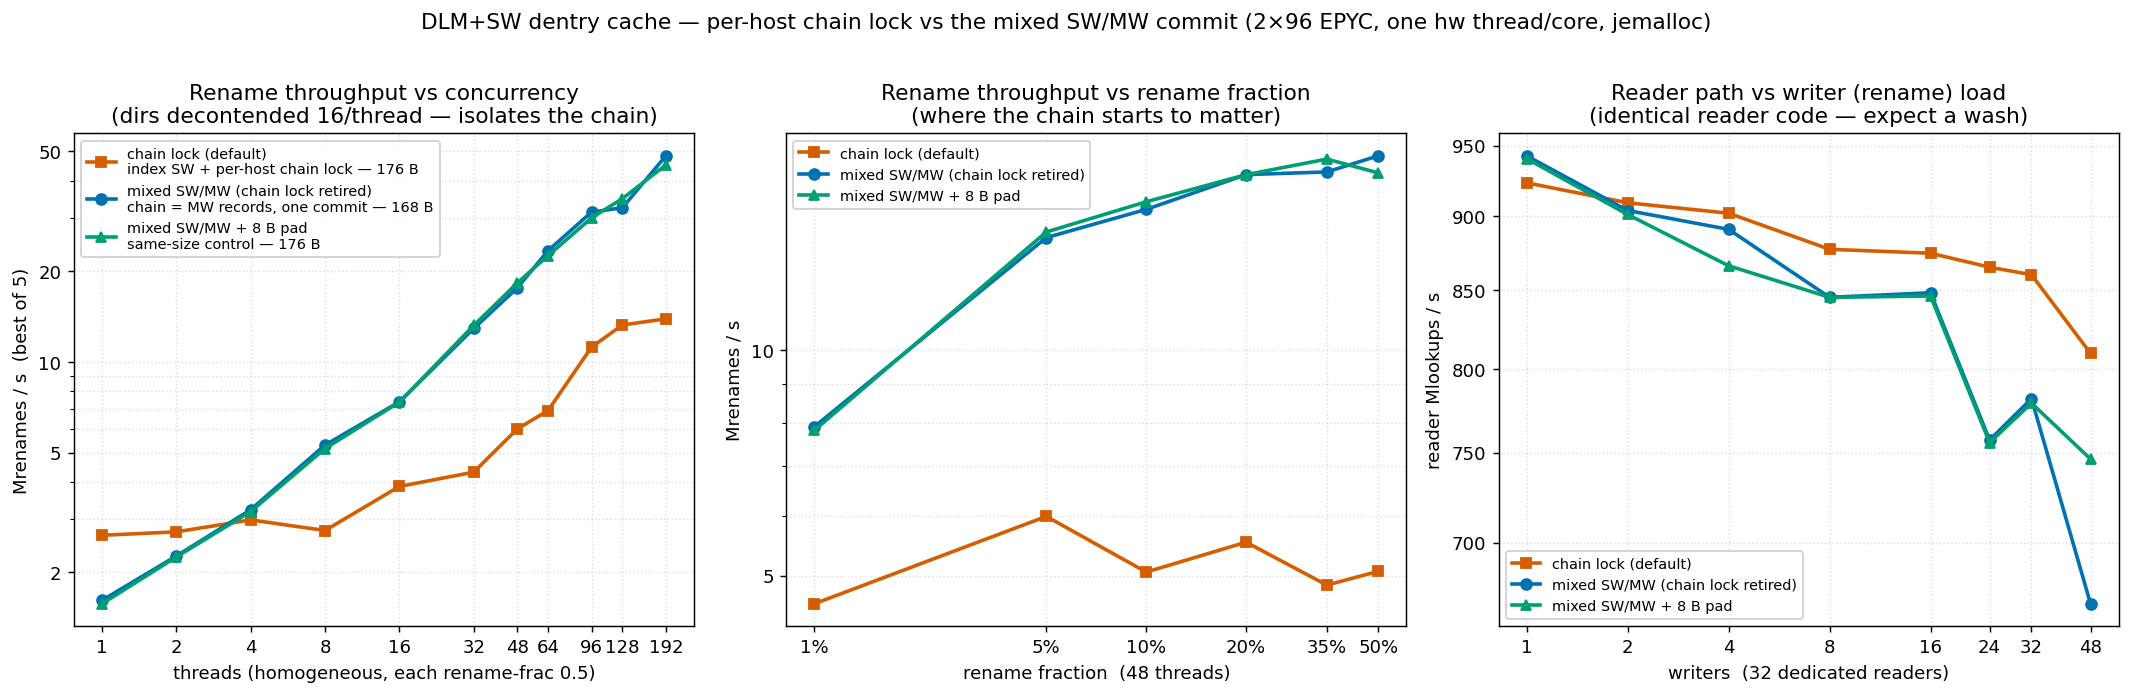
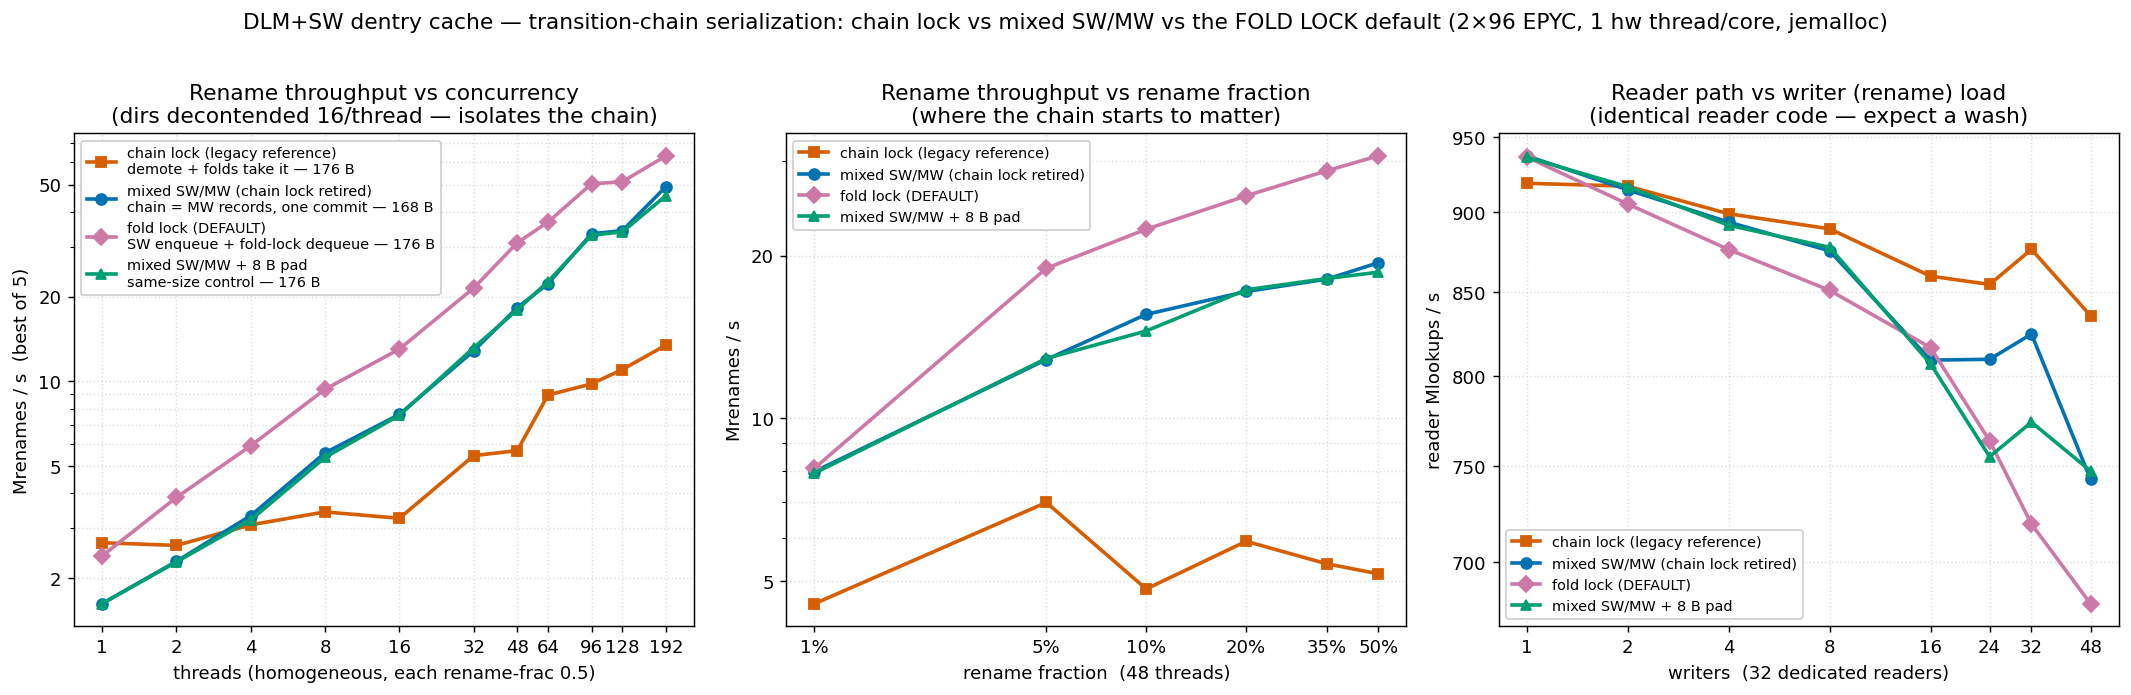
dcache: 4-arm fold-lock A/B sweep + figure
Add the fold-lock default (bench_dcache_dlm) and the chain-lock reference
(bench_dcache_dlm_chainlock, -DDC_CHAIN_LOCK) to the chain-strategy sweep, so the
figure now compares all three strategies plus the same-size control.  Rename the
arms accordingly (dlm-chainlock / dlm-swmw / dlm-swmw-pad / dlm-foldlock).

Result (2x96 EPYC, decontended rename scaling, best-of-5): the fold lock leads
everywhere past 1 thread -- ~2.7-5.5x the chain lock and ~1.3-1.8x the MW dequeue
from 8 to 192 threads -- while nearly matching the chain lock uncontended.  The
MW dequeue's win over the chain lock is the lock-free chain, not the -8B
(dlm-swmw and dlm-swmw-pad track each other).  Reads are a wash (all four ~1290
Mlookups/s, identical reader).

diff --git a/scripts/plot_dcache_swmw.py b/scripts/plot_dcache_swmw.py
@@ -1,16 +1,18 @@
 #!/usr/bin/env python3
 """
-DLM+SW dentry cache: per-host CHAIN LOCK vs the mixed SW/MW commit.
+DLM+SW dentry cache: chain-serialization strategies for the transition chain.
 
-Three arms (identical reader + mark; the transition chain d_fwd/d_back is the only
-thing that differs):
-  dlm           default -- index SW (bucket-locked) + a per-host chain LOCK
-                serializing every stack demote and every fold of a chain.  176 B.
+Four arms (identical reader + mark; only the chain d_fwd/d_back handling differs):
+  dlm-chainlock -DDC_CHAIN_LOCK -- legacy per-host chain LOCK: the demote AND every
+                fold of a chain take it.  176 B.  The A/B reference baseline.
   dlm-swmw      -DDC_CHAIN_SWMW -- the chain rides the mixed commit as MW records
                 (CAS-old serializes adjacent folds); chain lock RETIRED.  168 B.
   dlm-swmw-pad  same mixed engine + 8 B dead padding -> 176 B: the SAME-SIZE
-                control.  (swmw-pad vs dlm) isolates the lock-free-chain MECHANISM;
+                control.  (swmw-pad vs chainlock) isolates the MECHANISM;
                 (swmw vs swmw-pad) isolates the -8B FOOTPRINT.
+  dlm-foldlock  the DEFAULT (no chain flag) -- SW enqueue but the fold dequeue takes
+                a per-host FOLD lock and rewrites the chain with plain stores (no MW
+                descriptor).  The producer never takes that lock.  176 B.
 
 Data: scripts/dcache_swmw.csv (best-of-N, conservation-gated).  2x96 EPYC, one hw
 thread per core, jemalloc, dirs decontended to 16/writer.
@@ -51,14 +53,15 @@ HERE = os.path.dirname(os.path.abspath(__file__))
 CSV = os.path.join(HERE, "dcache_swmw.csv")
 OUT = os.environ.get("OUT", os.path.join(HERE, os.pardir, "figures", "dcache_swmw.png"))
 
-COLOR = {"dlm": "#D55E00", "dlm-swmw": "#0072B2", "dlm-swmw-pad": "#009E73"}
-MARKER = {"dlm": "s", "dlm-swmw": "o", "dlm-swmw-pad": "^"}
+COLOR = {"dlm-chainlock": "#D55E00", "dlm-swmw": "#0072B2", "dlm-swmw-pad": "#009E73", "dlm-foldlock": "#CC79A7"}
+MARKER = {"dlm-chainlock": "s", "dlm-swmw": "o", "dlm-swmw-pad": "^", "dlm-foldlock": "D"}
 LABEL = {
-    "dlm": "chain lock (default)\nindex SW + per-host chain lock — 176 B",
+    "dlm-chainlock": "chain lock (legacy reference)\ndemote + folds take it — 176 B",
     "dlm-swmw": "mixed SW/MW (chain lock retired)\nchain = MW records, one commit — 168 B",
     "dlm-swmw-pad": "mixed SW/MW + 8 B pad\nsame-size control — 176 B",
+    "dlm-foldlock": "fold lock (DEFAULT)\nSW enqueue + fold-lock dequeue — 176 B",
 }
-ORDER = ["dlm", "dlm-swmw", "dlm-swmw-pad"]
+ORDER = ["dlm-chainlock", "dlm-swmw", "dlm-foldlock", "dlm-swmw-pad"]
 
 
 def load():
@@ -142,8 +145,9 @@ def main():
     a2.grid(True, which="both", ls=":", alpha=0.4)
     a2.legend(fontsize=8, loc="lower left", framealpha=0.9)
 
-    fig.suptitle("DLM+SW dentry cache — per-host chain lock vs the mixed SW/MW commit "
-                 "(2×96 EPYC, one hw thread/core, jemalloc)", fontsize=12, y=1.02)
+    fig.suptitle("DLM+SW dentry cache — transition-chain serialization: chain lock vs "
+                 "mixed SW/MW vs the FOLD LOCK default (2×96 EPYC, 1 hw thread/core, jemalloc)",
+                 fontsize=12, y=1.02)
     fig.tight_layout()
     fig.savefig(OUT, dpi=130, bbox_inches="tight")
     print("wrote", OUT)
